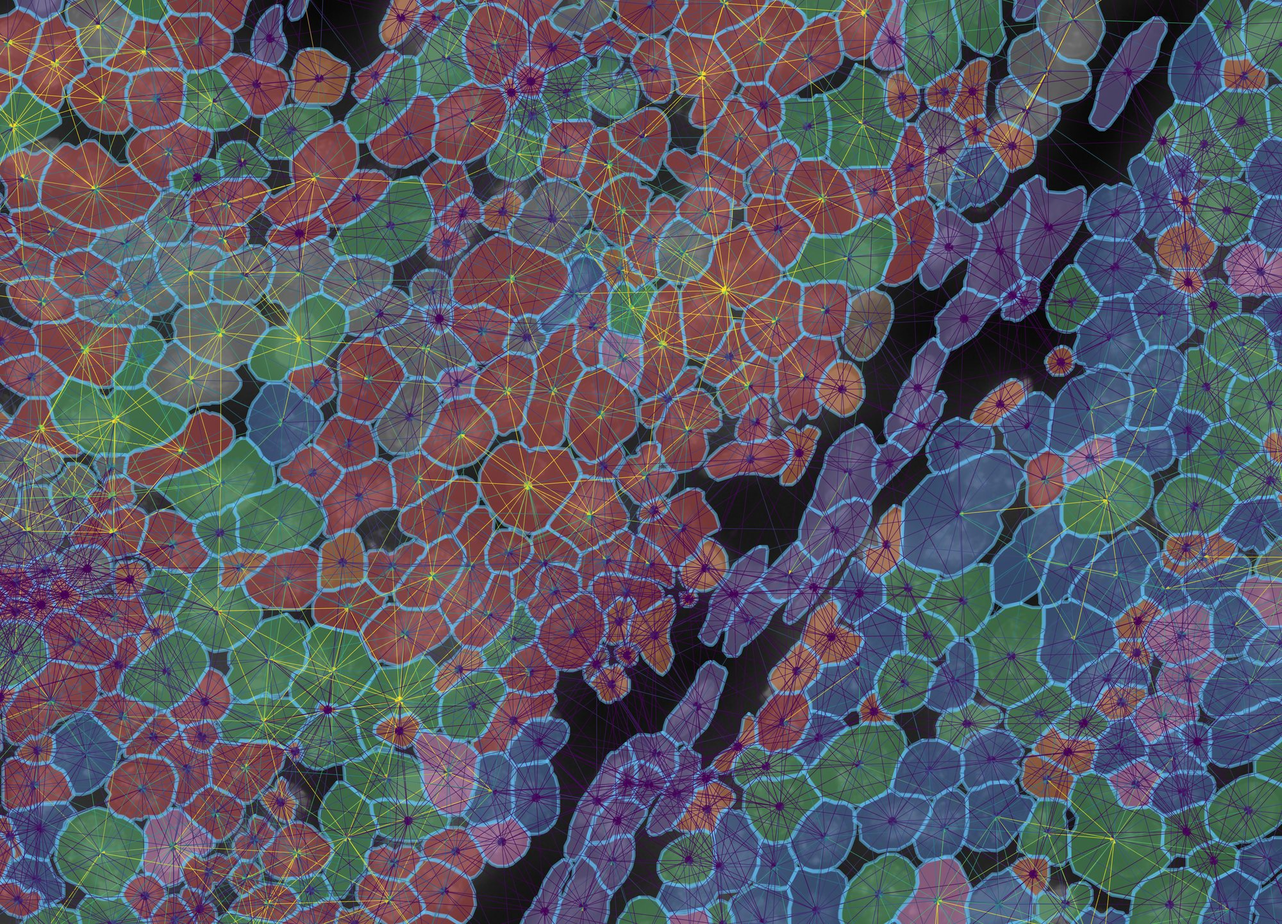
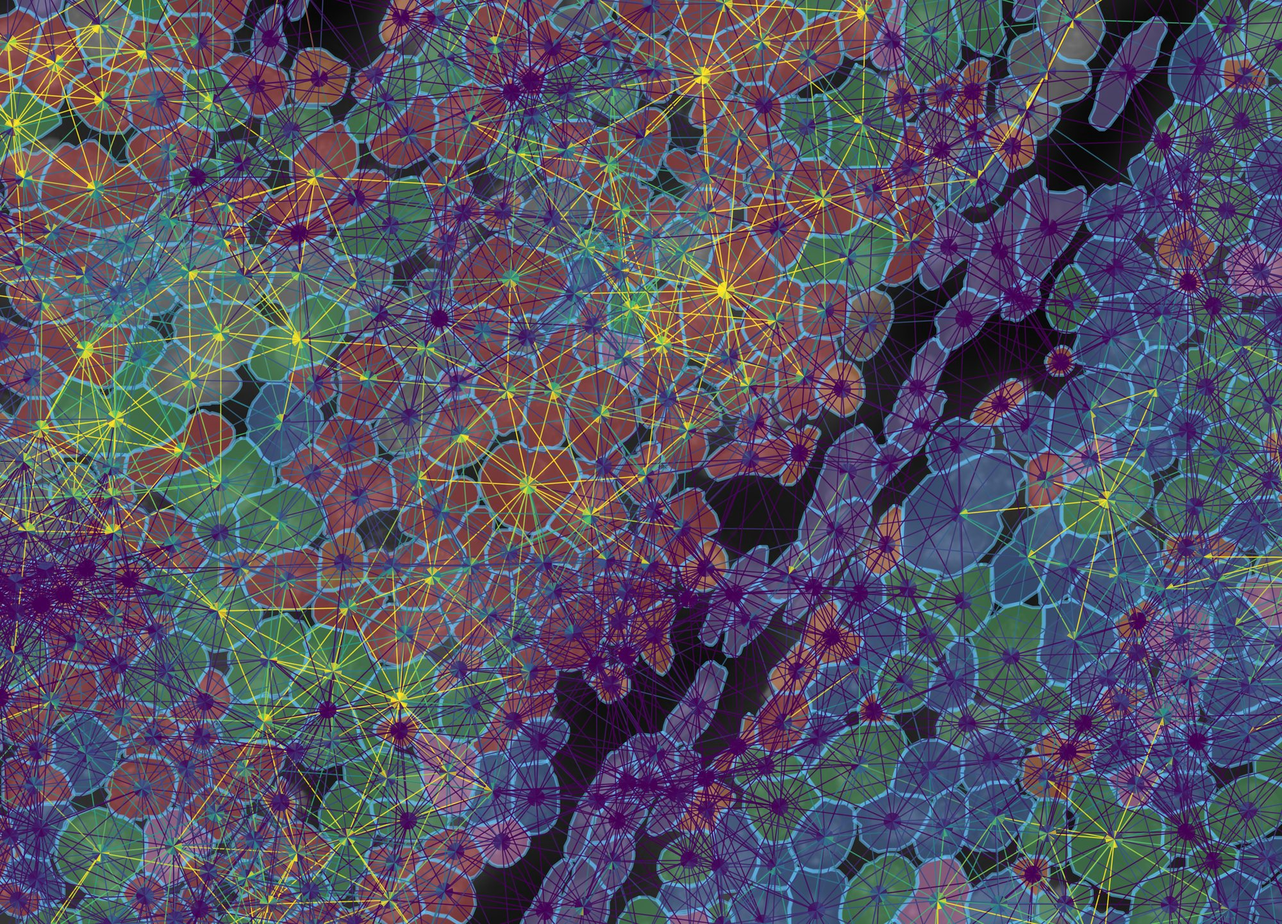
Worked examples: example 7 re-shot on the breast data with a real 3,500 px export; thicker edges in 3a, 5d and 7
Example 7 now frames the field from figure 5d, shows the Export dialog
with its 7in @500 readout, and includes the exported PNG itself
(3,500 x 2,496 px, pHYs 500 DPI, 20 um scale bar) with a 1:1 crop. The
edge width in 3a, 5d and the export figures is raised (2 and 2.5) so the
lines read at page size.

diff --git a/docs/vignettes.html b/docs/vignettes.html
@@ -230,11 +230,11 @@ columns a lab would write about its own pairs.</p>
   <li>Under <strong>Cell Color</strong>, tick <span class="ui">Color cells</span>, choose
   <span class="ui">Cell metadata</span>, then <span class="ui">graphclust</span>.</li>
   <li>The legend lists clusters 1 to 9 in numeric order with a swatch each; click a swatch to change its colour, or <span class="ui">import palette</span> to load a <code>category,#hex</code> file.</li>
-  <li>Tick <span class="ui">Edges</span> at about 45% so the signalling graph sits over the clusters, then hold <kbd>Shift</kbd> and click a line: the <strong>EDGE</strong> panel opens with an <strong>Annotations</strong> block from <code>edge-metadata/</code> above the mechanisms.</li>
+  <li>Tick <span class="ui">Edges</span> at about 55% with <span class="ui">width</span> 2 so the signalling graph sits over the clusters, then hold <kbd>Shift</kbd> and click a line: the <strong>EDGE</strong> panel opens with an <strong>Annotations</strong> block from <code>edge-metadata/</code> above the mechanisms.</li>
 </ol>
 <figure>
   <img src="img/vignettes/ex3_clusters.jpg" alt="Several hundred cells filled by cluster colour: red, green and blue tumour clusters packed together, a band of purple stromal cells running diagonally through them, blue outlines, and NICHESv2 edges drawn over everything in viridis">
-  <figcaption><strong>3a · Cells filled by <code>graphclust</code></strong> from a CSV in <code>cell-metadata/</code>, 437 cells in a 258 × 185 µm field at the tumour edge, with every NICHESv2 pair drawn over them at 45%. The viewer recognised nine integer levels as categories rather than a 1–9 gradient; <span class="ui">treat as categorical</span> is there to override that call either way. The clusters follow the tissue: the three tumour clusters (red 4, green 3, blue 1) fill the nests, and the purple cluster 5, whose enriched genes are VWF, PDGFRB, POSTN and LRRC15, is the stromal band between them.</figcaption>
+  <figcaption><strong>3a · Cells filled by <code>graphclust</code></strong> from a CSV in <code>cell-metadata/</code>, 437 cells in a 258 × 185 µm field at the tumour edge, with every NICHESv2 pair drawn over them at 55%. The viewer recognised nine integer levels as categories rather than a 1–9 gradient; <span class="ui">treat as categorical</span> is there to override that call either way. The clusters follow the tissue: the three tumour clusters (red 4, green 3, blue 1) fill the nests, and the purple cluster 5, whose enriched genes are VWF, PDGFRB, POSTN and LRRC15, is the stromal band between them.</figcaption>
 </figure>
 <figure class="pair">
   <img src="img/vignettes/ex3_legend.jpg" alt="The Cell Color section: Color cells ticked, Cell metadata, graphclust, treat as categorical ticked, nine colour swatches labelled 1 to 9, and import and export palette buttons">
@@ -353,7 +353,7 @@ layers, each from a different file, in one field 115 µm across.</p>
   and red with the swatches, or <span class="ui">import palette</span> with
   <code>breast_cxcl12_palette.csv</code>.</li>
   <li>Tick <span class="ui">Edges</span>, drag its <span class="ui">sample</span> to 100%, set
-  <span class="ui">width</span> 1.5, <span class="ui">offset</span> 2 and
+  <span class="ui">width</span> 2.5, <span class="ui">offset</span> 2 and
   <span class="ui">Harpoon</span>, and under <strong>LRM Mechanisms</strong> click
   <span class="ui">none</span> and tick only CXCL12 → CXCR4. Set the edge legend to
   <span class="ui">robust 5–95%</span>. Zoom in until about 80 cells fill the view.</li>
@@ -472,19 +472,29 @@ panel's range is so much narrower that sharing flattens it, and say so in the le
 
 <!-- ─────────────────────────────────────────────────────────────── -->
 <h2 id="ex7"><span class="num">7</span>A figure for the paper</h2>
-<p class="meta">Any dataset · 3 minutes</p>
+<p class="meta">Dataset <code>xenium_human_breast_2fov</code> · 3 minutes · continues from example 5</p>
 <p>A screenshot is limited to the pixels on your screen. <span class="ui">Export…</span>
 redraws the data layers at whatever size you ask for, because they are geometry rather
 than pixels, and writes the DPI you choose into the file so a journal's resolution check
-reads it.</p>
+reads it. Here the view is the one from figure 5d: CXCL12 → CXCR4 edges, the two genes'
+transcripts, cell outlines and 10x's clusters.</p>
 <ol>
-  <li>Choose <span class="ui">▭ Rectangle</span> and drag over the region you want. The rectangle stays on the tissue while you pan.</li>
+  <li>Choose <span class="ui">▭ Rectangle</span> and drag over the region you want. The rectangle stays on the tissue while you pan; it is stored in image coordinates, not screen ones.</li>
   <li>Click <span class="ui">Export…</span>. Pick a preset, <span class="ui">3.5in @500</span> for a single column or <span class="ui">7in @500</span> for a double, or type a width in pixels. Choose a <span class="ui">background</span>, tick <span class="ui">scale bar</span>, and click <span class="ui">Export PNG</span>.</li>
   <li>For a quick slide, <span class="ui">Save PNG</span> saves the panel as shown, image included, at screen resolution.</li>
 </ol>
 <figure>
-  <img src="img/vignettes/export_dialog_pane.jpg" alt="The Export figure dialog with width, DPI, background and scale bar options over a framed region of tissue">
-  <figcaption>The <strong>Export figure</strong> dialog. The readout under the fields shows the output size in pixels and inches so the relationship between width and DPI stays visible.</figcaption>
+  <img src="img/vignettes/ex7_framed.jpg" alt="The viewer with a white framing rectangle drawn over the middle of the field from figure 5d">
+  <figcaption><strong>7a · Framing.</strong> The <span class="ui">▭ Rectangle</span> frames 89 × 60 µm of the field in figure 5d, 420 × 280 image pixels. Everything else about the view is unchanged.</figcaption>
+</figure>
+<figure class="pair">
+  <img src="img/vignettes/ex7_dialog.jpg" alt="The Export figure dialog: region 89.2 by 59.5 micrometres, width 3500 px, DPI 500, the three presets, an output readout of 3500 by 2333 px equal to 7.00 by 4.67 inches at 500 DPI and 8.3 times the region's 420 source pixels, background black, scale bar ticked with a 20 micrometre bar, and a Saved 3500 by 2496 px line">
+  <img src="img/vignettes/ex7_export_1to1.jpg" alt="A 1000 by 700 pixel crop of the exported PNG at its native size: crisp cell outlines, transcript dots and offset harpoon edges on black">
+  <figcaption><strong>7b · The dialog, and 1,000 × 700 px of the result at 1:1.</strong> Left: <span class="ui">7in @500</span> gives 3,500 px for 420 source pixels, 8.3 pixels of output per pixel of the microscope image, and the readout says so. Right: a crop of the exported file at its native size. The outlines, dots and harpoons are redrawn as geometry at 3,500 px, which is why they stay sharp where a screenshot enlarged 8× would not.</figcaption>
+</figure>
+<figure>
+  <img src="img/vignettes/ex7_export.jpg" alt="The exported figure: the framed field on black with cell fills by cluster, white and red transcript dots, CXCL12 to CXCR4 edges with harpoon heads, and a 20 micrometre scale bar in a margin band at the bottom">
+  <figcaption><strong>7c · The exported PNG</strong>, 3,500 × 2,496 px, tagged 500 DPI, here reduced for the page. The 20 µm scale bar sits in its own band below the plot rather than over the data. There is no DAPI: the export draws the data layers only, so nothing in it is limited by the source image's resolution.</figcaption>
 </figure>
 <div class="callout warn"><strong class="label">Two things to know before exporting a multi-panel figure</strong>
 <ul>
@@ -499,7 +509,7 @@ reads it.</p>
   <div class="card"><h4><a href="https://github.com/RaredonLab/TissuePlex/blob/dev/docs/public_datasets.md">Datasets and licences</a></h4><p>Where each demo dataset comes from, what was trimmed, and further public data to try.</p></div>
 </div>
 
-<footer>TissuePlex is developed in the Raredon Lab. Demo data: 10x Genomics example datasets (CC BY 4.0); Bruker Spatial Biology CosMx mouse brain via the OSTA project (non-commercial data licence); synthetic fixtures generated in this repository.</footer>
+<footer>TissuePlex is developed in the Raredon Lab. Demo data: 10x Genomics example datasets (CC BY 4.0); Bruker Spatial Biology CosMx mouse brain via the OSTA project (non-commercial data licence). No synthetic data appears in these examples.</footer>
 </div>
 </main>
 </body>
